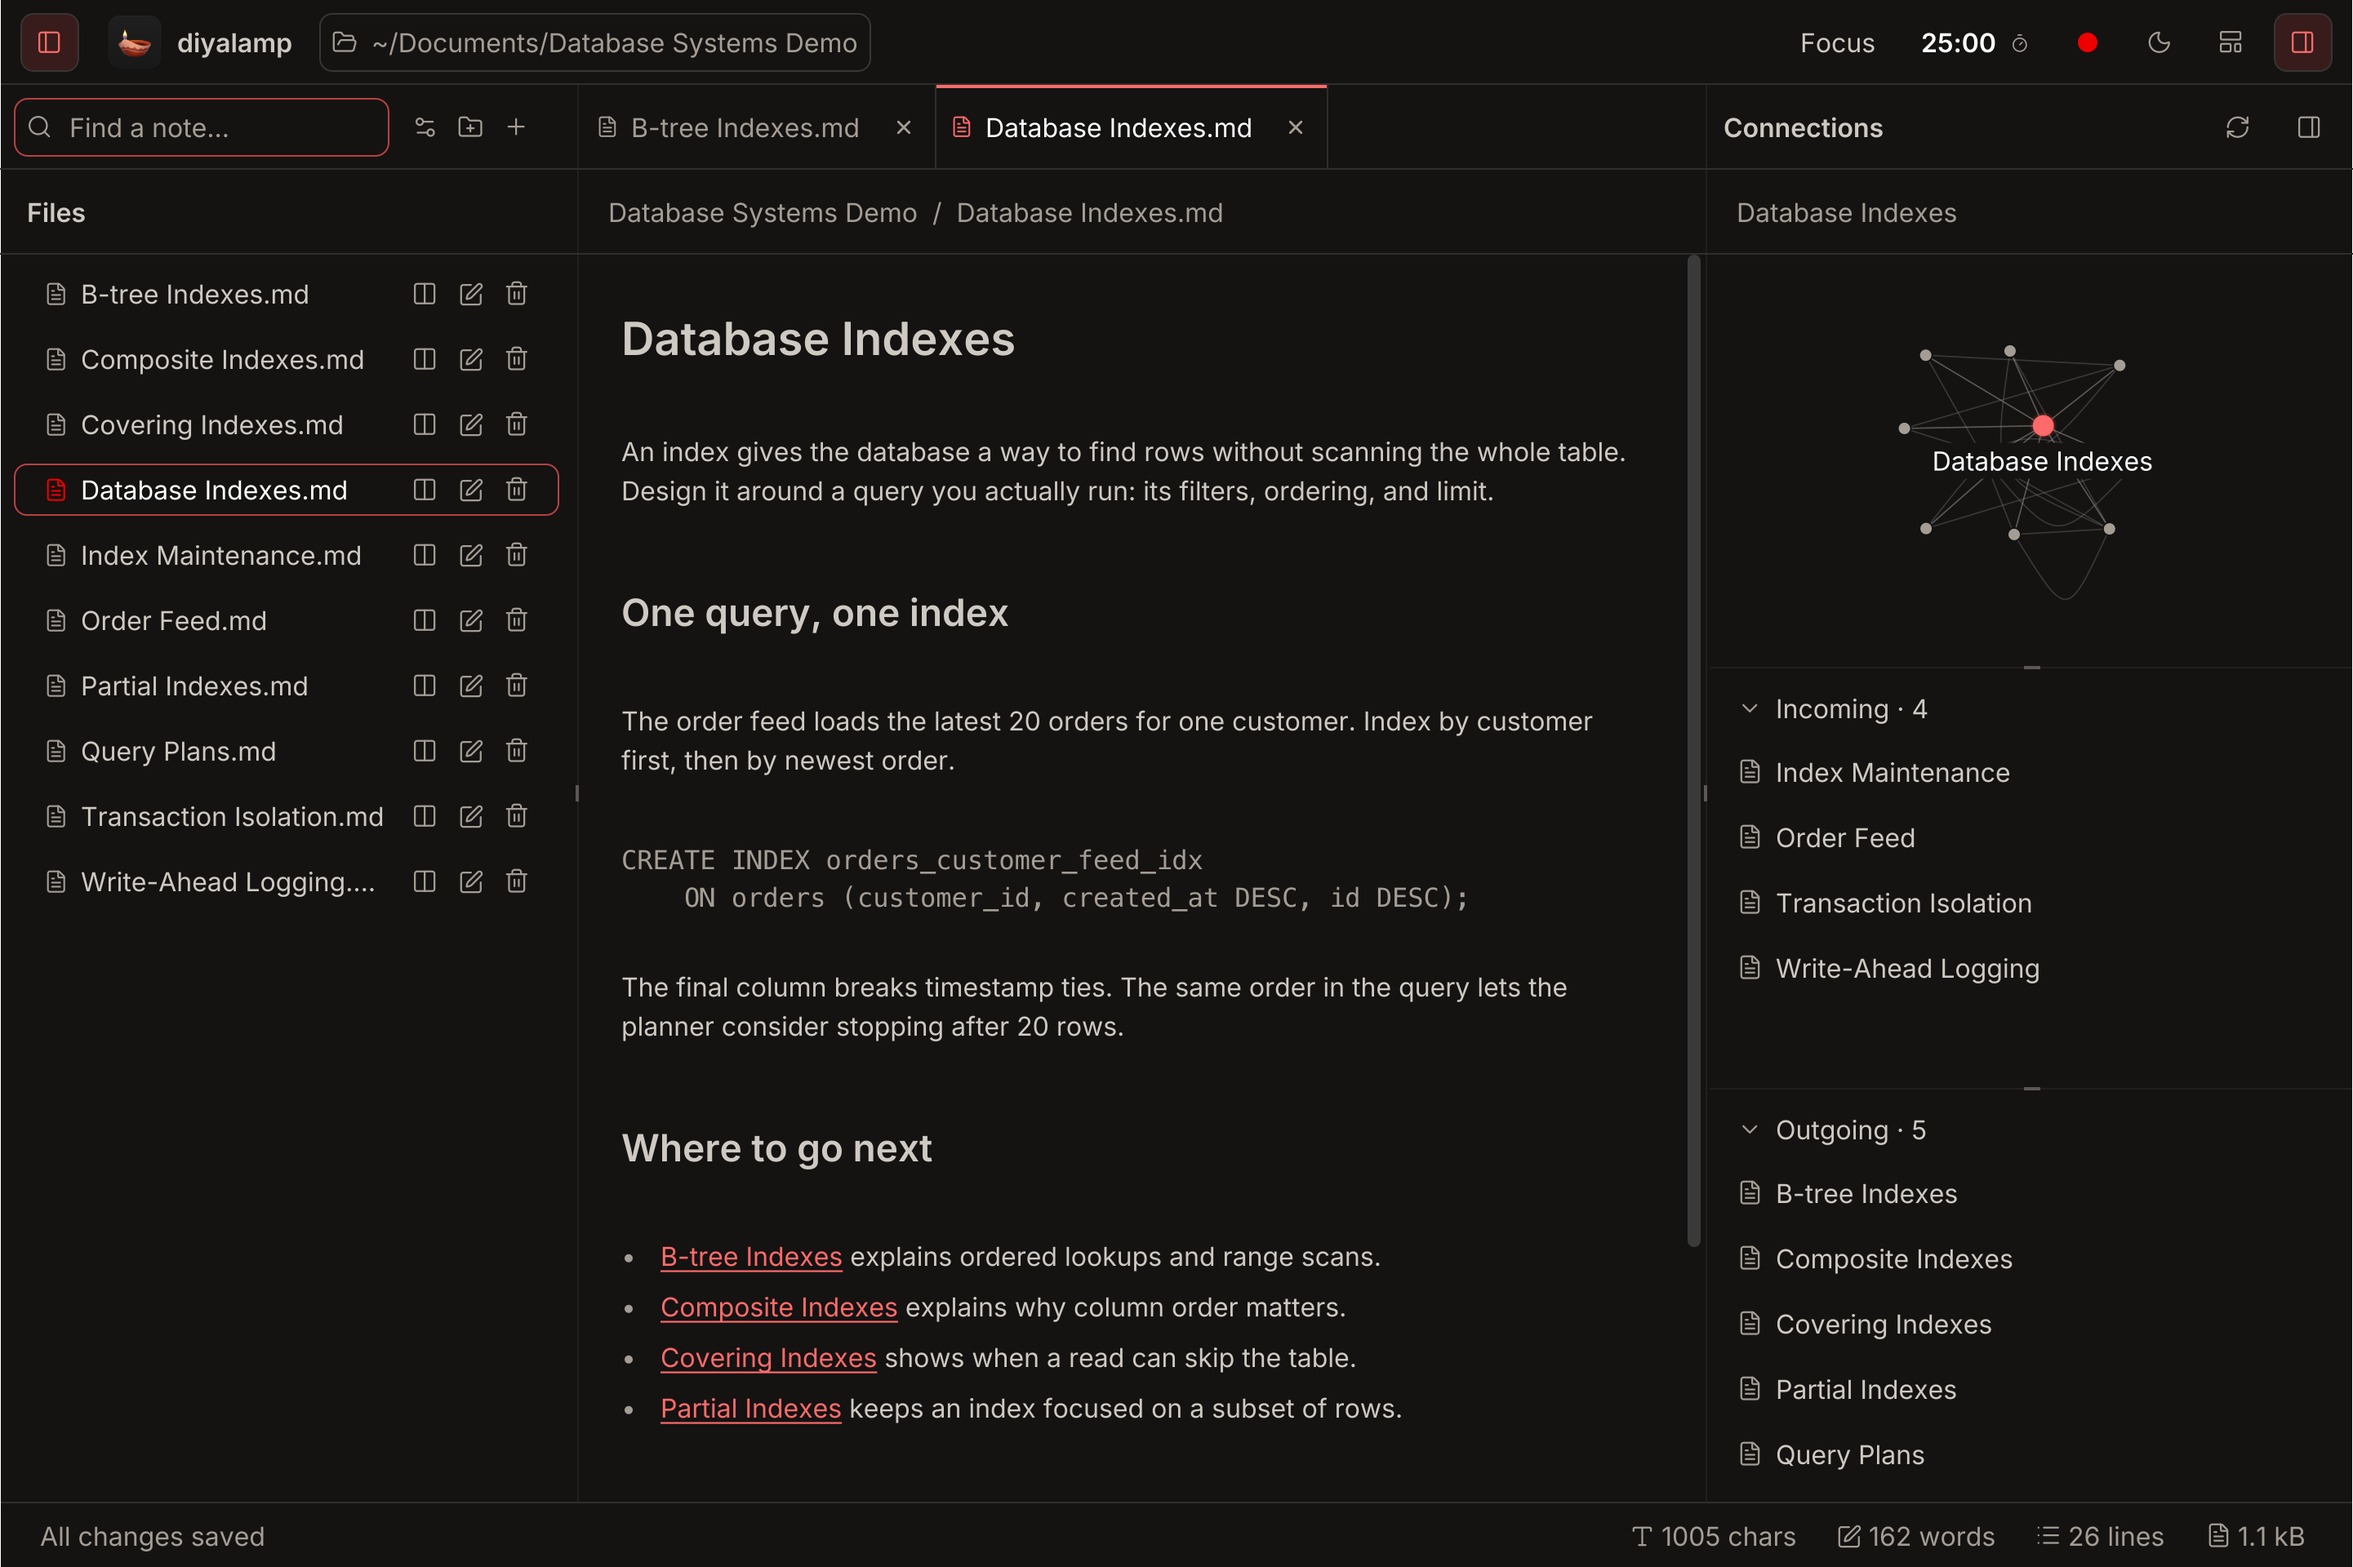
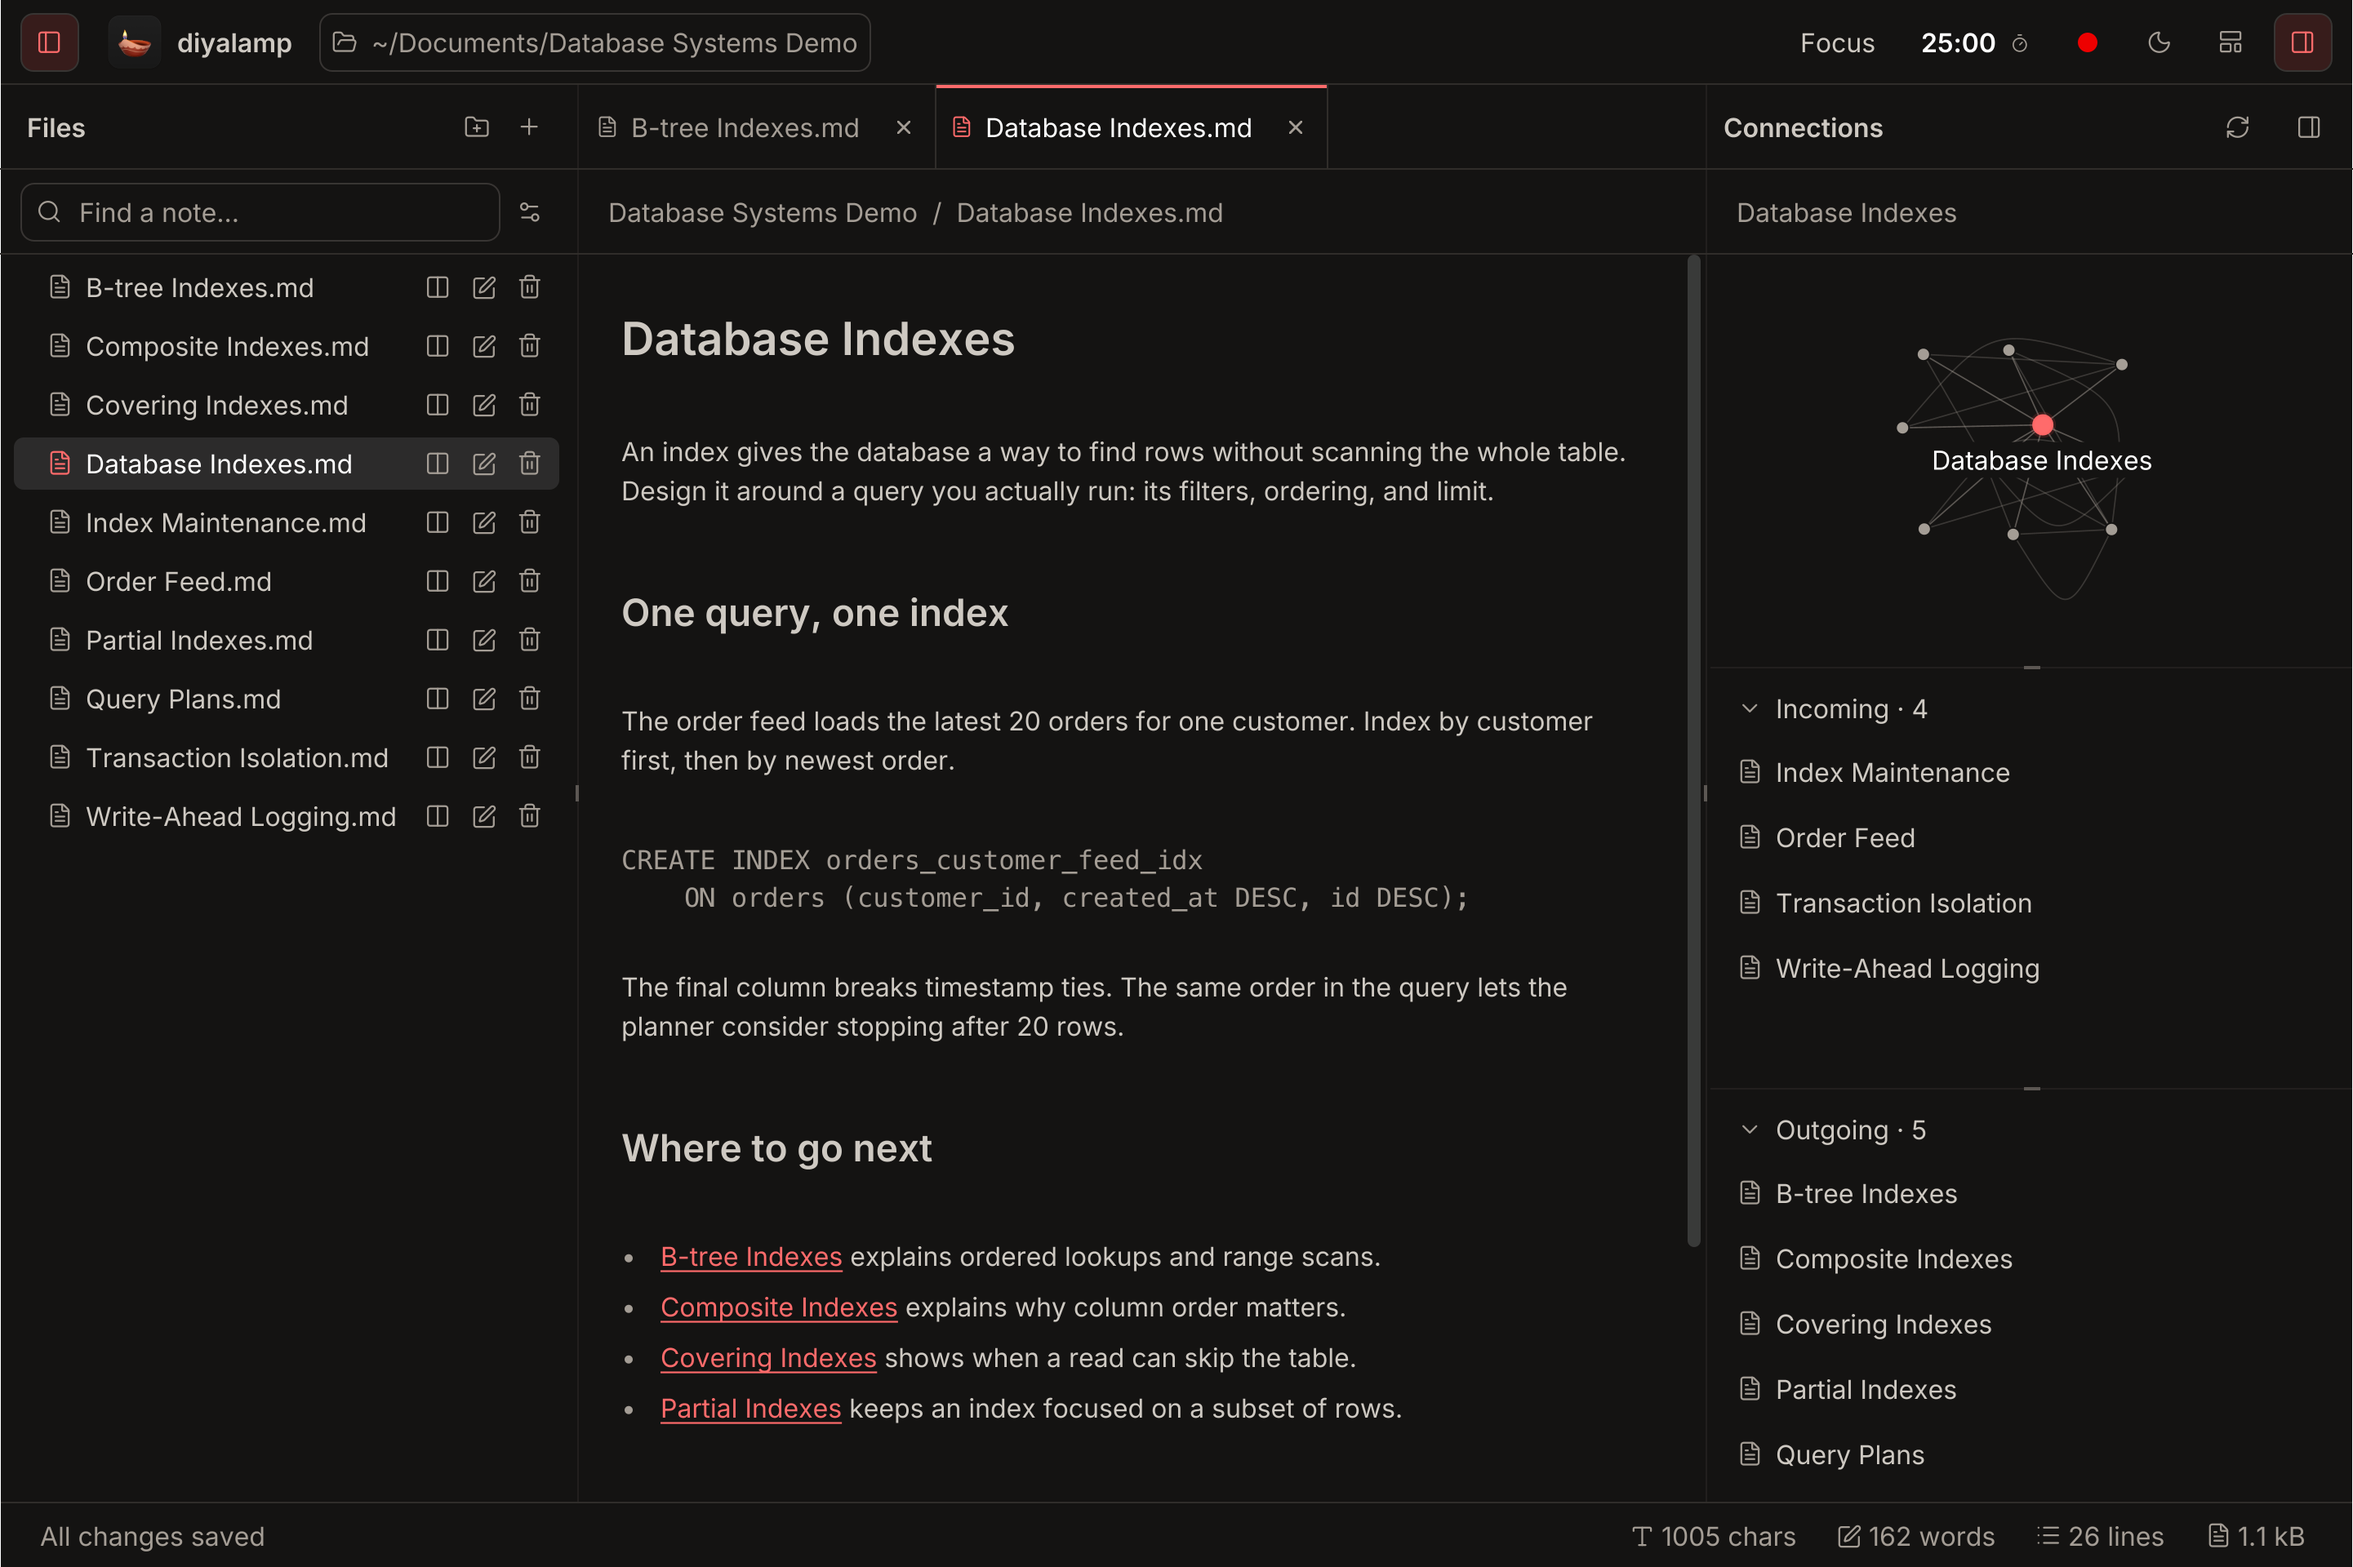
Publish the DiyaLamp 1.3.9 sidebar screenshots and downloads

Changed region(s): [[0.0, 0.125, 0.2498, 0.5312], [0.8119, 0.25, 0.9056, 0.3125], [0.0, 0.0625, 0.0937, 0.0938]]

diff --git a/website/src/lib/desktop-release.ts b/website/src/lib/desktop-release.ts
@@ -1,11 +1,11 @@
 /** Public desktop release and architecture-specific installers. */
-const version = '1.3.8';
+const version = '1.3.9';
 const source = 'https://github.com/diyalamp/diyalamp';
 const assets = `${source}/releases/download/v${version}`;
 
 const downloads = [
-  { label: 'Apple silicon', architecture: 'arm64', bytes: 42_243_359, previousBytes: 48_239_105 },
-  { label: 'Intel', architecture: 'x86_64', bytes: 43_771_438, previousBytes: 49_634_711 },
+  { label: 'Apple silicon', architecture: 'arm64', bytes: 42_256_091, previousBytes: 48_239_105 },
+  { label: 'Intel', architecture: 'x86_64', bytes: 43_782_726, previousBytes: 49_634_711 },
 ].map((download) => {
   const url = `${assets}/diyalamp-${version}-macos-${download.architecture}.dmg`;
   return { ...download, url, checksum: `${url}.sha256` };
